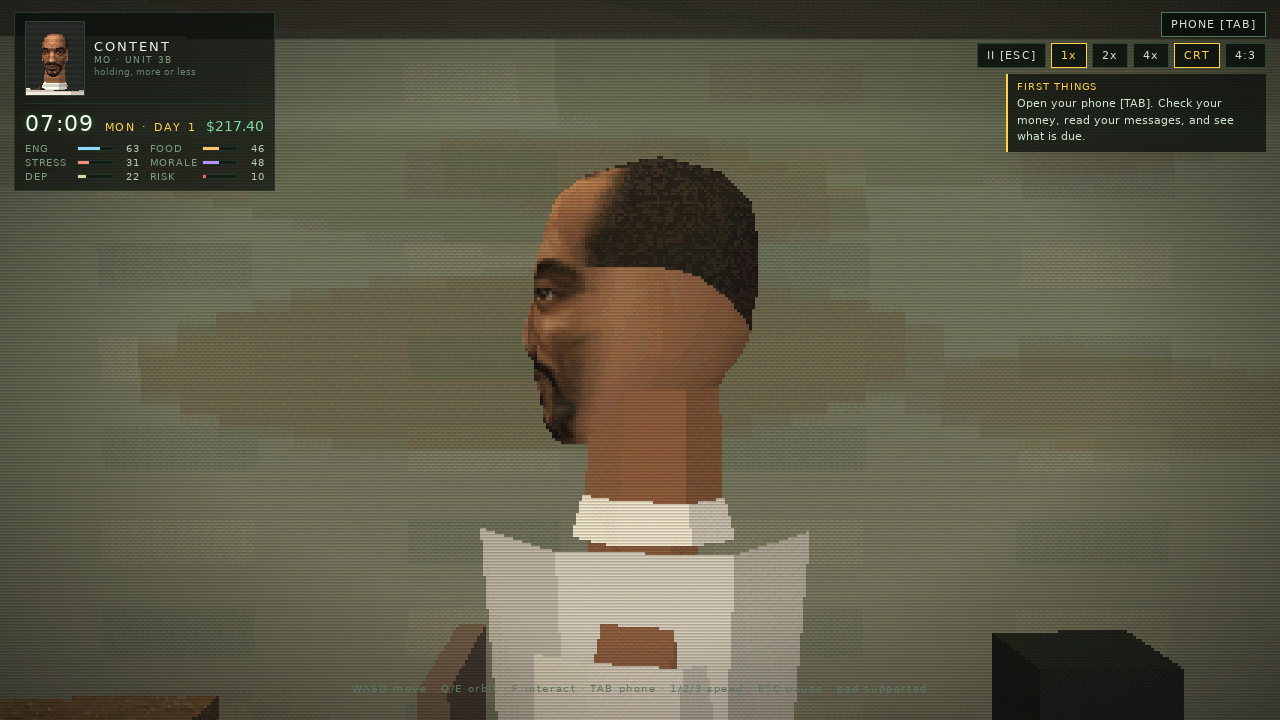
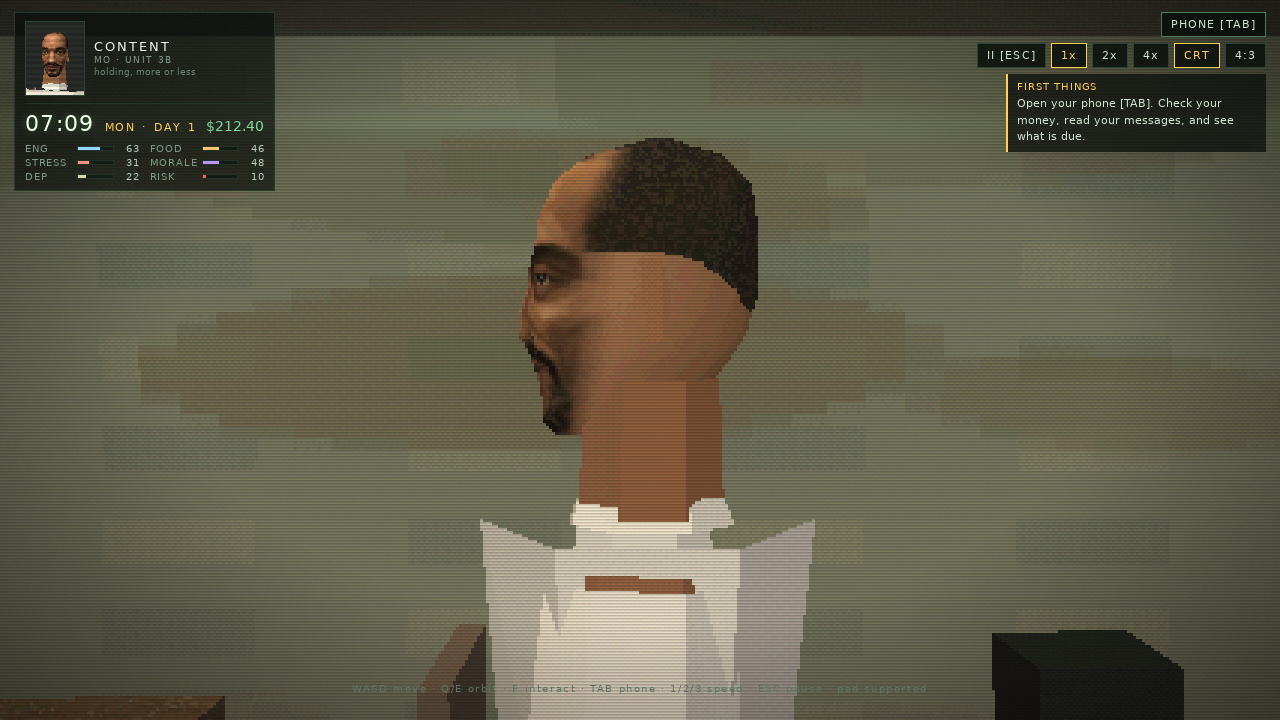
Make Mo walk properly and give him the reference build
A and D were reversed because the camera's screen-right vector had the wrong sign, and movement
was applied instantly every frame, so starts and stops snapped. Both now run through one eased
velocity, and clicking the floor sets a walk target with a marker ring on the ground.

The body is rebuilt to the supplied render: broader deltoids carried by the chest, thicker upper
arms with sleeves that flare to the hem, baggy jeans wide through the knee tapering to the ankle,
bigger fists, a heavier neck, and no seam speckle at the knee.

diff --git a/src/world/game3d.js b/src/world/game3d.js
@@ -50,6 +50,11 @@ export class World {
     this.menuGroup = null;
     this.menuTime = 0;
     this.walking = false;
+    this.vel = new THREE.Vector3();
+    this.moveTarget = null;
+    this.marker = null;
+    this.markerFade = 0;
+    this.ray = new THREE.Raycaster();
     this.hurt = 0;
 
     this.resize();
@@ -103,6 +108,8 @@ export class World {
 
   loadArea(id, g, spawnId = null) {
     this.clearArea();
+    this.moveTarget = null;
+    this.vel.set(0, 0, 0);
     this.mode = 'play';
     this.areaId = id;
     const builder = BUILDERS[id] || buildApartment;
@@ -180,6 +187,44 @@ export class World {
     this.tilt = 0.4;
   }
 
+  /** Where a screen point lands on the floor of the current area (null if it misses). */
+  groundAt(clientX, clientY) {
+    const canvas = this.renderer.domElement;
+    const rect = canvas.getBoundingClientRect();
+    if (!rect.width || !rect.height) return null;
+    const ndc = new THREE.Vector2(
+      ((clientX - rect.left) / rect.width) * 2 - 1,
+      -((clientY - rect.top) / rect.height) * 2 + 1
+    );
+    this.ray.setFromCamera(ndc, this.camera);
+    const dir = this.ray.ray.direction;
+    if (Math.abs(dir.y) < 1e-4) return null;
+    const t = -this.ray.ray.origin.y / dir.y;
+    if (t <= 0 || t > 40) return null;
+    const hit = this.ray.ray.origin.clone().addScaledVector(dir, t);
+    const b = this.area?.bounds;
+    if (b) {
+      hit.x = clamp(hit.x, b.minX, b.maxX);
+      hit.z = clamp(hit.z, b.minZ, b.maxZ);
+    }
+    return hit;
+  }
+
+  setMoveTarget(spot) {
+    this.moveTarget = { x: spot.x, z: spot.z };
+    if (!this.marker) {
+      const ring = new THREE.RingGeometry(0.17, 0.235, 20);
+      const m = new THREE.MeshBasicMaterial({ color: 0xf4e7b0, transparent: true, opacity: 0.8, side: THREE.DoubleSide, depthWrite: false });
+      this.marker = new THREE.Mesh(ring, m);
+      this.marker.rotation.x = -Math.PI / 2;
+      this.marker.renderOrder = 2;
+      this.root.add(this.marker);
+    }
+    this.marker.position.set(spot.x, 0.02, spot.z);
+    this.marker.visible = true;
+    this.markerFade = 1;
+  }
+
   update(dt, g) {
     this.time += dt;
     retroUniforms.time.value = this.time * 1.0;
@@ -224,48 +269,95 @@ export class World {
     const orbit = g.input?.orbitDelta || 0;
     if (orbit) this.camYaw += orbit;
 
-    // Camera-relative movement. Forward is always away from the camera, so W walks into
-    // the screen and the character turns to face wherever the stick points.
+    // Movement is camera-relative, so W is always into the screen. A tap on the floor feeds the
+    // same model as a target, and both run through one eased velocity — that is what stops the
+    // start/stop snap that made the walk feel janky.
     const mx = canMove ? (g.input?.move?.x || 0) : 0;
     const my = canMove ? (g.input?.move?.y || 0) : 0;
     const len = Math.hypot(mx, my);
-    this.walking = len > 0.08;
+    const keyed = len > 0.08;
+    if (keyed) this.moveTarget = null;
+
+    if (canMove && g.input?.clicks?.length) {
+      const click = g.input.clicks.shift();
+      const spot = this.groundAt(click.x, click.y);
+      if (spot) this.setMoveTarget(spot);
+    } else if (g.input?.clicks) {
+      g.input.clicks.length = 0;
+    }
+    if (this.moveTarget) {
+      const rest = Math.hypot(this.moveTarget.x - this.mo.root.position.x, this.moveTarget.z - this.mo.root.position.z);
+      if (rest < 0.16) this.moveTarget = null;
+    }
+
     const impairment = Math.min(1, (s.stats.withdrawal / 140) + (s.high.level / 240));
-    if (this.walking) {
+    const cYaw = this.camYaw;
+    const fwdX = Math.sin(cYaw);
+    const fwdZ = Math.cos(cYaw);
+    const rightX = -Math.cos(cYaw);   // screen-right is forward turned a quarter to the right
+    const rightZ = Math.sin(cYaw);
+    let dirX = 0;
+    let dirZ = 0;
+    if (keyed) {
       const nxm = mx / len;
       const nym = my / len;
-      const cYaw = this.camYaw;
-      const fwdX = Math.sin(cYaw);
-      const fwdZ = Math.cos(cYaw);
-      const rightX = Math.cos(cYaw);
-      const rightZ = -Math.sin(cYaw);
-      const wx = fwdX * nym + rightX * nxm;
-      const wz = fwdZ * nym + rightZ * nxm;
-      let speed = 2.45;
-      if (g.input?.lastDevice === 'pad') speed *= 1.05;
-      if (impairment > 0.5) speed *= 0.78;
-      if (s.stats.energy < 15) speed *= 0.72;
-      let nx = this.mo.root.position.x + wx * speed * dt;
-      let nz = this.mo.root.position.z + wz * speed * dt;
+      dirX = fwdX * nym + rightX * nxm;
+      dirZ = fwdZ * nym + rightZ * nxm;
+    } else if (this.moveTarget) {
+      const tx = this.moveTarget.x - this.mo.root.position.x;
+      const tz = this.moveTarget.z - this.mo.root.position.z;
+      const tl = Math.hypot(tx, tz) || 1;
+      dirX = tx / tl;
+      dirZ = tz / tl;
+    }
+
+    let speed = 2.45;
+    if (g.input?.lastDevice === 'pad') speed *= 1.05;
+    if (impairment > 0.5) speed *= 0.78;
+    if (s.stats.energy < 15) speed *= 0.72;
+
+    const ease = Math.min(1, dt * (dirX || dirZ ? 11 : 15));
+    this.vel.x += (dirX * speed - this.vel.x) * ease;
+    this.vel.z += (dirZ * speed - this.vel.z) * ease;
+    if (!dirX && !dirZ && Math.hypot(this.vel.x, this.vel.z) < 0.06) { this.vel.x = 0; this.vel.z = 0; }
+    const speedNow = Math.hypot(this.vel.x, this.vel.z);
+    this.walking = speedNow > 0.22;
+
+    if (this.walking) {
+      let vx = this.vel.x;
+      let vz = this.vel.z;
       // wander when impaired
       if (impairment > 0.35) {
-        nx += Math.sin(this.time * 3.1) * impairment * 0.22 * dt * 6;
-        nz += Math.cos(this.time * 2.7) * impairment * 0.22 * dt * 6;
+        vx += Math.sin(this.time * 3.1) * impairment * 0.55;
+        vz += Math.cos(this.time * 2.7) * impairment * 0.55;
       }
+      const beforeX = this.mo.root.position.x;
+      const beforeZ = this.mo.root.position.z;
       const b = this.area.bounds;
-      nx = clamp(nx, b.minX, b.maxX);
-      nz = clamp(nz, b.minZ, b.maxZ);
-      if (!this.blocked(nx, this.mo.root.position.z)) this.mo.root.position.x = nx;
+      const nx = clamp(beforeX + vx * dt, b.minX, b.maxX);
+      const nz = clamp(beforeZ + vz * dt, b.minZ, b.maxZ);
+      if (!this.blocked(nx, beforeZ)) this.mo.root.position.x = nx;
       if (!this.blocked(this.mo.root.position.x, nz)) this.mo.root.position.z = nz;
+      // a target behind a wall is dropped instead of shoving him against it forever
+      const stuck = Math.abs(this.mo.root.position.x - beforeX) < 1e-5 && Math.abs(this.mo.root.position.z - beforeZ) < 1e-5;
+      if (stuck && this.moveTarget) this.moveTarget = null;
 
-      const targetRot = Math.atan2(wx, wz);
-      void targetRot;
-      this.mo.root.rotation.y += angleDelta(this.mo.root.rotation.y, targetRot) * Math.min(1, dt * 12);
+      const targetRot = Math.atan2(vx, vz);
+      this.mo.root.rotation.y += angleDelta(this.mo.root.rotation.y, targetRot) * Math.min(1, dt * 10);
       this.stepTimer -= dt;
       if (this.stepTimer <= 0) {
-        this.stepTimer = 0.42;
+        this.stepTimer = 0.40 * (2.45 / Math.max(1.2, speedNow));
         g.audio?.sfx?.('step');
       }
+    }
+
+    // the tap marker: a small ring on the floor that turns and fades as he arrives
+    if (this.marker) {
+      if (this.moveTarget) this.markerFade = 1;
+      this.markerFade = Math.max(0, this.markerFade - dt * (this.moveTarget ? 0 : 0.9));
+      this.marker.visible = this.markerFade > 0.01;
+      this.marker.material.opacity = this.markerFade * 0.8;
+      this.marker.rotation.z += dt * 1.1;
     }
 
     // animation

diff --git a/src/world/characters.js b/src/world/characters.js
@@ -202,22 +202,22 @@ function buildBody(spec) {
   const skin = tone(skinColor);
 
   // vertical stack of a 1.78 m figure: crotch at 0.53, shoulder line at 0.83, crown at 1.78
-  const footH = 0.072 * k;
-  const calfH = 0.440 * k;
-  const thighH = 0.440 * k;
-  const pelvisH = 0.120 * k;
-  const abdomenH = 0.150 * k;
-  const chestH = 0.260 * k;
-  const neckH = 0.060 * k;
-  const headH = 0.215 * k;
+  const footH = 0.075 * k;
+  const calfH = 0.445 * k;
+  const thighH = 0.435 * k;
+  const pelvisH = 0.125 * k;
+  const abdomenH = 0.145 * k;
+  const chestH = 0.265 * k;
+  const neckH = 0.058 * k;
+  const headH = 0.222 * k;
   const hipY = footH + calfH + thighH;
   const shoulderY = abdomenH + chestH;
 
-  const hipW = 0.330 * b * k;       // pelvis, wider than the waist
-  const waistW = 0.296 * b * k;
-  const chestW = 0.392 * b * k;
-  const shoulderW = 0.436 * b * k;  // deltoid to deltoid
-  const shoulderX = shoulderW / 2 - 0.085 * k;  // the arm hangs inside the deltoid
+  const hipW = 0.352 * b * k;       // pelvis, wider than the waist
+  const waistW = 0.318 * b * k;
+  const chestW = 0.428 * b * k;
+  const shoulderW = 0.492 * b * k;  // deltoid to deltoid
+  const shoulderX = shoulderW / 2 - 0.094 * k;  // the arm hangs inside the deltoid
 
   const root = new THREE.Group();
   root.add(shadowBlob(0.26 + 0.06 * k));
@@ -226,12 +226,12 @@ function buildBody(spec) {
   hips.add(prism(waistW, hipW, 0.205 * k, 0.222 * k, pelvisH, pantsMat, [0, pelvisH, 0], 8));
 
   function makeLeg(sx) {
-    const pivot = joint(hips, sx * hipW * 0.27, -0.01 * k, 0);
-    pivot.add(prism(0.176 * b * k, 0.128 * b * k, 0.186 * k, 0.146 * k, thighH, pantsMat, [0, 0.012 * k, 0], 7));
+    const pivot = joint(hips, sx * hipW * 0.28, -0.01 * k, 0);
+    pivot.add(prism(0.196 * b * k, 0.150 * b * k, 0.198 * k, 0.158 * k, thighH, pantsMat, [0, 0.012 * k, 0], 7));
     const knee = joint(pivot, 0, -thighH, 0);
-    knee.add(prism(0.128 * b * k, 0.094 * b * k, 0.146 * k, 0.106 * k, calfH, pantsMat, [0, 0.006 * k, 0], 7));
+    knee.add(prism(0.146 * b * k, 0.116 * b * k, 0.152 * k, 0.110 * k, calfH, pantsMat, [0, 0.004 * k, 0], 7));
     const ankle = joint(knee, 0, -calfH, 0);
-    ankle.add(prism(0.104 * k, 0.112 * k, 0.125 * k, 0.255 * k, footH, shoeMat, [0, 0, 0.045 * k], 6));
+    ankle.add(prism(0.120 * k, 0.128 * k, 0.132 * k, 0.272 * k, footH, shoeMat, [0, 0, 0.048 * k], 6));
     return { pivot, knee, ankle };
   }
   const legL = makeLeg(-1);
@@ -245,25 +245,25 @@ function buildBody(spec) {
   torso.add(prism(chestW, waistW * 1.16, 0.245 * k, 0.200 * k, chestH, shirtMat, [0, shoulderY, 0], 8));
 
   // neck: visible above the collar, running up inside the skull so there is no step
-  torso.add(prism(0.104 * k, 0.120 * k, 0.098 * k, 0.114 * k, neckH + 0.05 * k, skin, [0, shoulderY + neckH + 0.035 * k, -0.006 * k], 8));
+  torso.add(prism(0.116 * k, 0.132 * k, 0.104 * k, 0.120 * k, neckH + 0.05 * k, skin, [0, shoulderY + neckH + 0.035 * k, -0.006 * k], 8));
   const head = joint(torso, 0, shoulderY + neckH + 0.012 * k, 0);
   const headGroup = buildHead({ hh: headH, kind, style: hairStyle, skinMat: tone(skinColor, 0.95), hairColor });
   headGroup.position.set(0, -0.02 * k, 0.0);
   head.add(headGroup);
 
-  const upperH = 0.288 * k;
+  const upperH = 0.300 * k;
   const foreH = 0.248 * k;
-  const handH = 0.090 * k;
+  const handH = 0.098 * k;
 
   function makeArm(sx) {
     const pivot = joint(torso, sx * shoulderX, shoulderY - 0.020 * k, 0);
     // deltoid and sleeve are one volume: full over the shoulder, ending at mid-bicep
-    pivot.add(prism(0.112 * b * k, 0.106 * b * k, 0.134 * k, 0.124 * k, upperH * 0.52, sleeveMat, [0, -0.050 * k, 0.004 * k], 8));
-    pivot.add(prism(0.094 * b * k, 0.080 * b * k, 0.104 * k, 0.092 * k, upperH, armMat, [0, 0, 0.004 * k], 8));
+    pivot.add(prism(0.108 * b * k, 0.134 * b * k, 0.126 * k, 0.152 * k, upperH * 0.55, sleeveMat, [0, -0.008 * k, 0.004 * k], 8));
+    pivot.add(prism(0.106 * b * k, 0.088 * b * k, 0.112 * k, 0.096 * k, upperH, armMat, [0, 0, 0.004 * k], 8));
     const elbow = joint(pivot, 0, -upperH, 0);
-    elbow.add(prism(0.086 * b * k, 0.062 * b * k, 0.094 * k, 0.072 * k, foreH, armMat === sleeveMat ? sleeveMat : armMat, [0, 0.006 * k, 0.004 * k], 8));
+    elbow.add(prism(0.096 * b * k, 0.072 * k, 0.100 * k, 0.078 * k, foreH, armMat === sleeveMat ? sleeveMat : armMat, [0, 0.006 * k, 0.004 * k], 8));
     // fist: a small faceted block with a thumb, no wrist ball
-    const hand = prism(0.070 * k, 0.064 * k, 0.052 * k, 0.048 * k, handH, handMat || skin, [0, -foreH - 0.004 * k, 0.012 * k], 6);
+    const hand = prism(0.086 * b * k, 0.078 * b * k, 0.062 * k, 0.056 * k, handH, handMat || skin, [0, -foreH - 0.004 * k, 0.012 * k], 6);
     elbow.add(hand);
     elbow.add(prism(0.026 * k, 0.022 * k, 0.030 * k, 0.026 * k, handH * 0.52, handMat || skin, [sx * -0.028 * k, -foreH + 0.006 * k, 0.026 * k], 5));
     return { pivot, elbow, hand };
@@ -277,7 +277,7 @@ function buildBody(spec) {
 /* ---------------------------------- cast ---------------------------------- */
 
 const CAST = {
-  mo: { height: 1.78, skin: 0x8f6446, hair: 0x201812, style: 'short', beard: 'goatee' },
+  mo: { height: 1.78, build: 1.04, skin: 0x8f6446, hair: 0x201812, style: 'short', beard: 'goatee' },
   addison: { height: 1.86, build: 1.03, skin: 0xdcbb95, hair: 0xb9b6ad, style: 'swept', beard: 'full' },
   rae: { height: 1.66, skin: 0xe0c0a2, hair: 0x201a20, style: 'bob', shirt: 0x6d5a74, pants: 0x3a3442 },
   dale: { height: 1.72, skin: 0xbf9d80, hair: 0x9d9c96, style: 'receding', beard: 'stubble', shirt: 0x2f6b4a, pants: 0x26302a },

diff --git a/src/core/input.js b/src/core/input.js
@@ -39,6 +39,7 @@ export class InputSystem {
     this.padName = null;
     this.padButtons = {};
     this.events = [];
+    this.clicks = [];
     this.lastDevice = 'keyboard';
     this.bind();
   }
@@ -90,26 +91,46 @@ export class InputSystem {
       }
     });
 
-    // mouse orbit: drag anywhere over the stage
+    // mouse and touch: drag to orbit the camera, tap the floor to walk Mo there
     const stage = document.getElementById('stage');
     if (stage) {
       let dragging = false;
       let lastX = 0;
+      let downX = 0;
+      let downY = 0;
+      let moved = 0;
+      let downAt = 0;
+      let onWorld = false;
       stage.addEventListener('pointerdown', (e) => {
         if (e.button !== 0) return;
         dragging = true;
         lastX = e.clientX;
+        downX = e.clientX;
+        downY = e.clientY;
+        moved = 0;
+        downAt = performance.now();
+        onWorld = e.target?.tagName === 'CANVAS';
         stage.setPointerCapture?.(e.pointerId);
       });
       stage.addEventListener('pointermove', (e) => {
         if (!dragging) return;
-        this.dragAxis += (e.clientX - lastX) * 0.006;
+        const d = e.clientX - lastX;
         lastX = e.clientX;
+        moved = Math.max(moved, Math.hypot(e.clientX - downX, e.clientY - downY));
+        // only orbit once the pointer has actually travelled, so a tap never nudges the camera
+        if (moved > 5) this.dragAxis += d * 0.006;
       });
-      const stop = () => { dragging = false; };
-      stage.addEventListener('pointerup', stop);
-      stage.addEventListener('pointercancel', stop);
-      stage.addEventListener('pointerleave', stop);
+      stage.addEventListener('pointerup', (e) => {
+        if (!dragging) return;
+        dragging = false;
+        const g = this.g;
+        const tap = onWorld && moved <= 6 && performance.now() - downAt < 600;
+        if (tap && g.mode === 'play' && !g.modalOpen && !g.phoneOpen) {
+          this.clicks.push({ x: e.clientX, y: e.clientY });
+        }
+      });
+      stage.addEventListener('pointercancel', () => { dragging = false; });
+      stage.addEventListener('pointerleave', () => { dragging = false; });
     }
   }
 
@@ -208,6 +229,7 @@ export class InputSystem {
     this.move.x = 0;
     this.move.y = 0;
     this.events.length = 0;
+    this.clicks.length = 0;
   }
 
   get padConnected() { return !!this.gamepad(); }

diff --git a/README.md b/README.md
@@ -48,6 +48,7 @@ way the camera is turned, and Mo turns to face the way the stick points.
 | Input | Action |
 |---|---|
 | `W A S D` / arrows | Move |
+| Click / tap the floor | Walk Mo to that spot (a drag still orbits) |
 | `Q` `E` | Orbit the camera around Mo |
 | Mouse drag | Orbit the camera |
 | `F` / `Space` / `Enter` | Interact with whatever is near |
